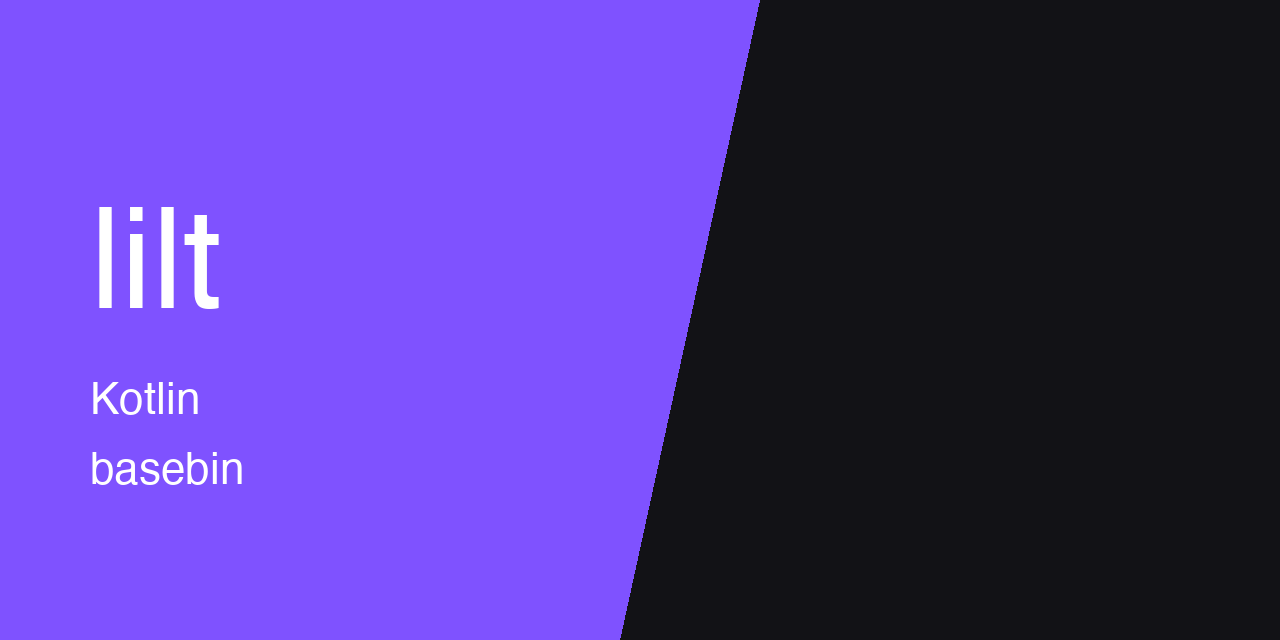
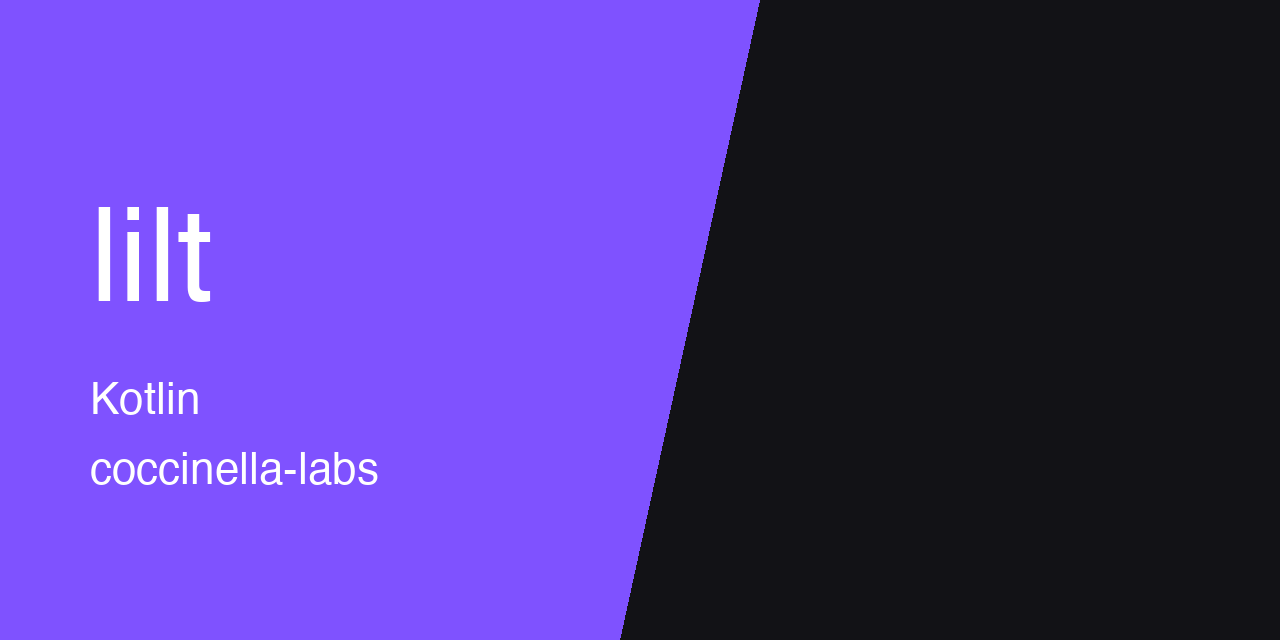
[docs] move thumbnail to coccinella-labs

Changed region(s): [[0.0625, 0.3125, 0.1875, 0.5], [0.0625, 0.7188, 0.3125, 0.7812]]

diff --git a/README.md b/README.md
@@ -1,5 +1,5 @@
 <p align="center">
-  <img src="https://raw.githubusercontent.com/basebin/lilt/main/.github/assets/thumbnail.png" alt="lilt" width="100%">
+  <img src="https://raw.githubusercontent.com/Coccinella-Labs/lilt/main/.github/assets/thumbnail.png" alt="lilt" width="100%">
 </p>
 
 <p align="center">
